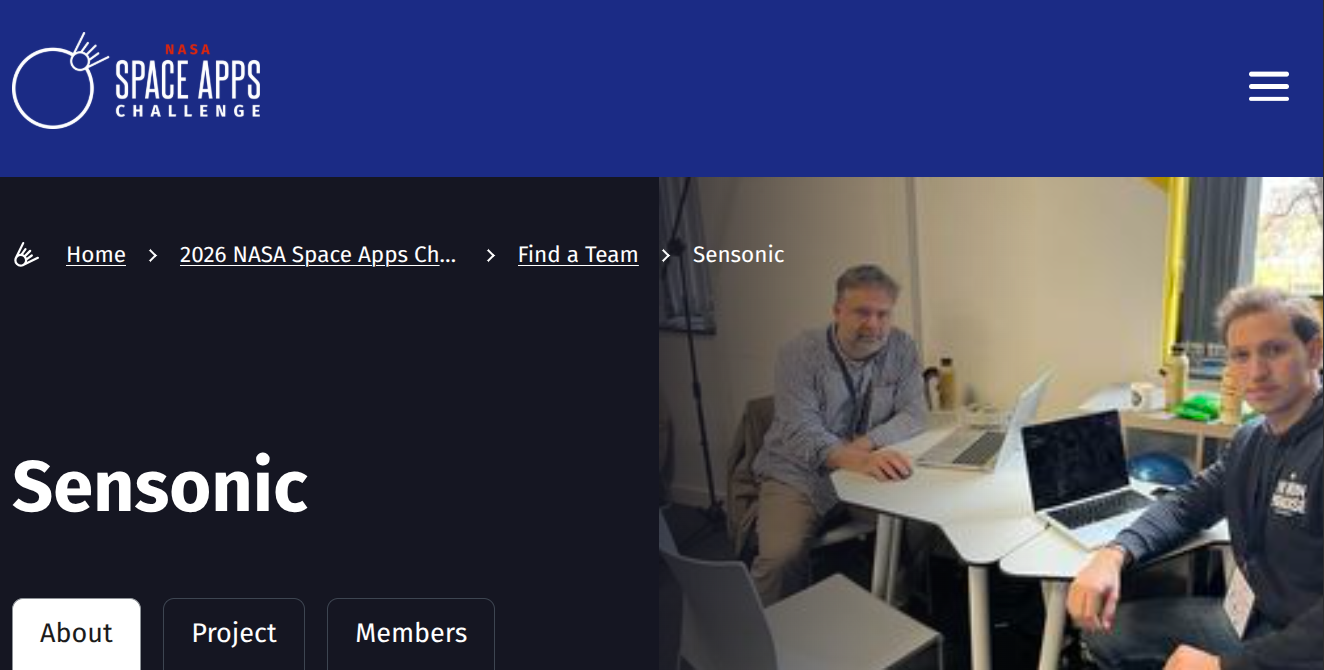
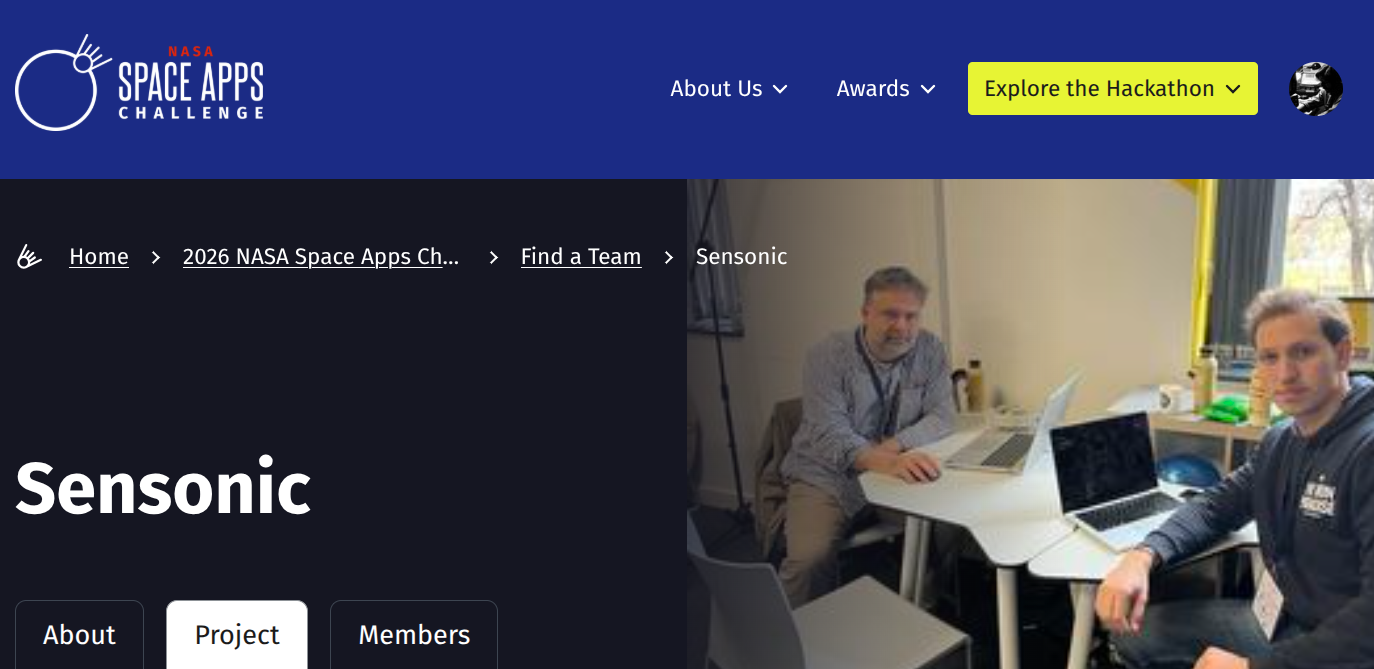
update README to clarify exhibit room considerations and replace video link

diff --git a/README.md b/README.md
@@ -7,6 +7,8 @@ Try
 3. Open image.png
 4. Explore with mouse cursor
 
-![Immersion](https://www.youtube.com/watch?v=2nzAHdqu2QI)
+Consider for exhibit rooms
+
+[![Immersion](https://img.youtube.com/vi/2nzAHdqu2QI/0.jpg)](https://www.youtube.com/watch?v=2nzAHdqu2QI)
 
 
